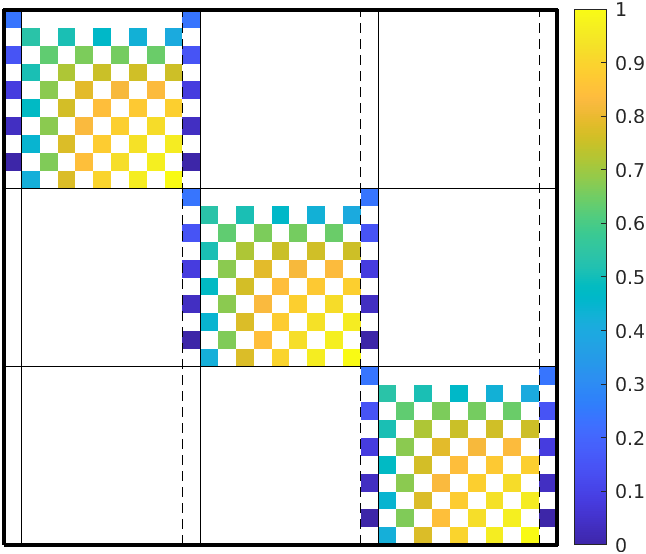
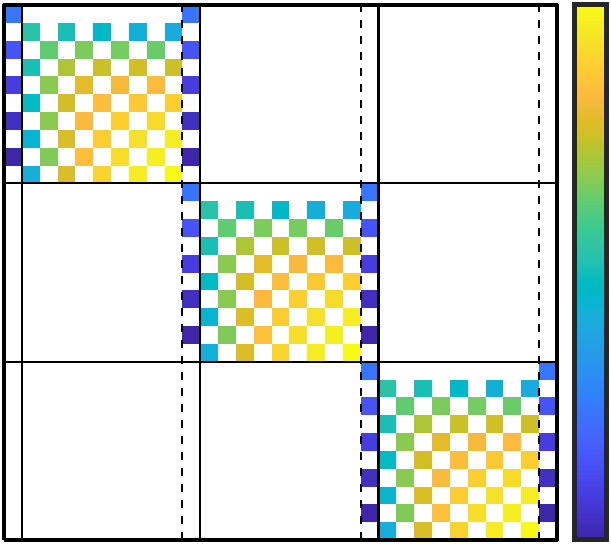
Updated figures

diff --git a/paper/9 - finite elements in time/main.tex b/paper/9 - finite elements in time/main.tex
@@ -90,15 +90,15 @@
             \centering
             \begin{subfigure}{0.5\textwidth}
                 \centering
-                \includegraphics[width = 0.9\textwidth]{paper/9 - finite elements in time/images/matrix 1.png}
+                \includegraphics[width = 0.9\textwidth]{9 - finite elements in time/images/matrix 1.png}
                 \caption{$(\langle\varphi_{j}, \partial_{t}\phi_{l}\rangle_{T^{h}})_{j, l}$}
             \end{subfigure}%
             \begin{subfigure}{0.5\textwidth}
                 \centering
-                \includegraphics[width = 0.9\textwidth]{paper/9 - finite elements in time/images/matrix 2.png}
+                \includegraphics[width = 0.9\textwidth]{9 - finite elements in time/images/matrix 2.png}
                 \caption{$(\langle\varphi_{j}, \phi_{l}\rangle_{T^{h}})_{j, l}$}
             \end{subfigure}
-            \caption{Sparsity plots for the two ``timestepping matrices'' when $q = 10$ on 3 (equal) intervals, under simple normalised polynomial bases. \\ Color indicates $\log(|*|)$ for the matrix entries. White lines indicate block structure from (\ref{eqn:timestepper matrices}), while solid white lines indicate lower-triangular structure after elimination of first column with strong initial condition imposition.}
+            \caption{Sparsity plots for the two ``timestepping matrices'' when $q = 10$ on 3 (equal) intervals, under simple normalised polynomial bases. \\ Color indicates $\log(|*|)$ for the matrix entries. Black lines indicate block structure from (\ref{eqn:timestepper matrices}), while solid black lines indicate lower-triangular structure after elimination of first column with strong initial condition imposition.}
             \label{fig:timestepper matrices}
         \end{figure}
     \end{example}
